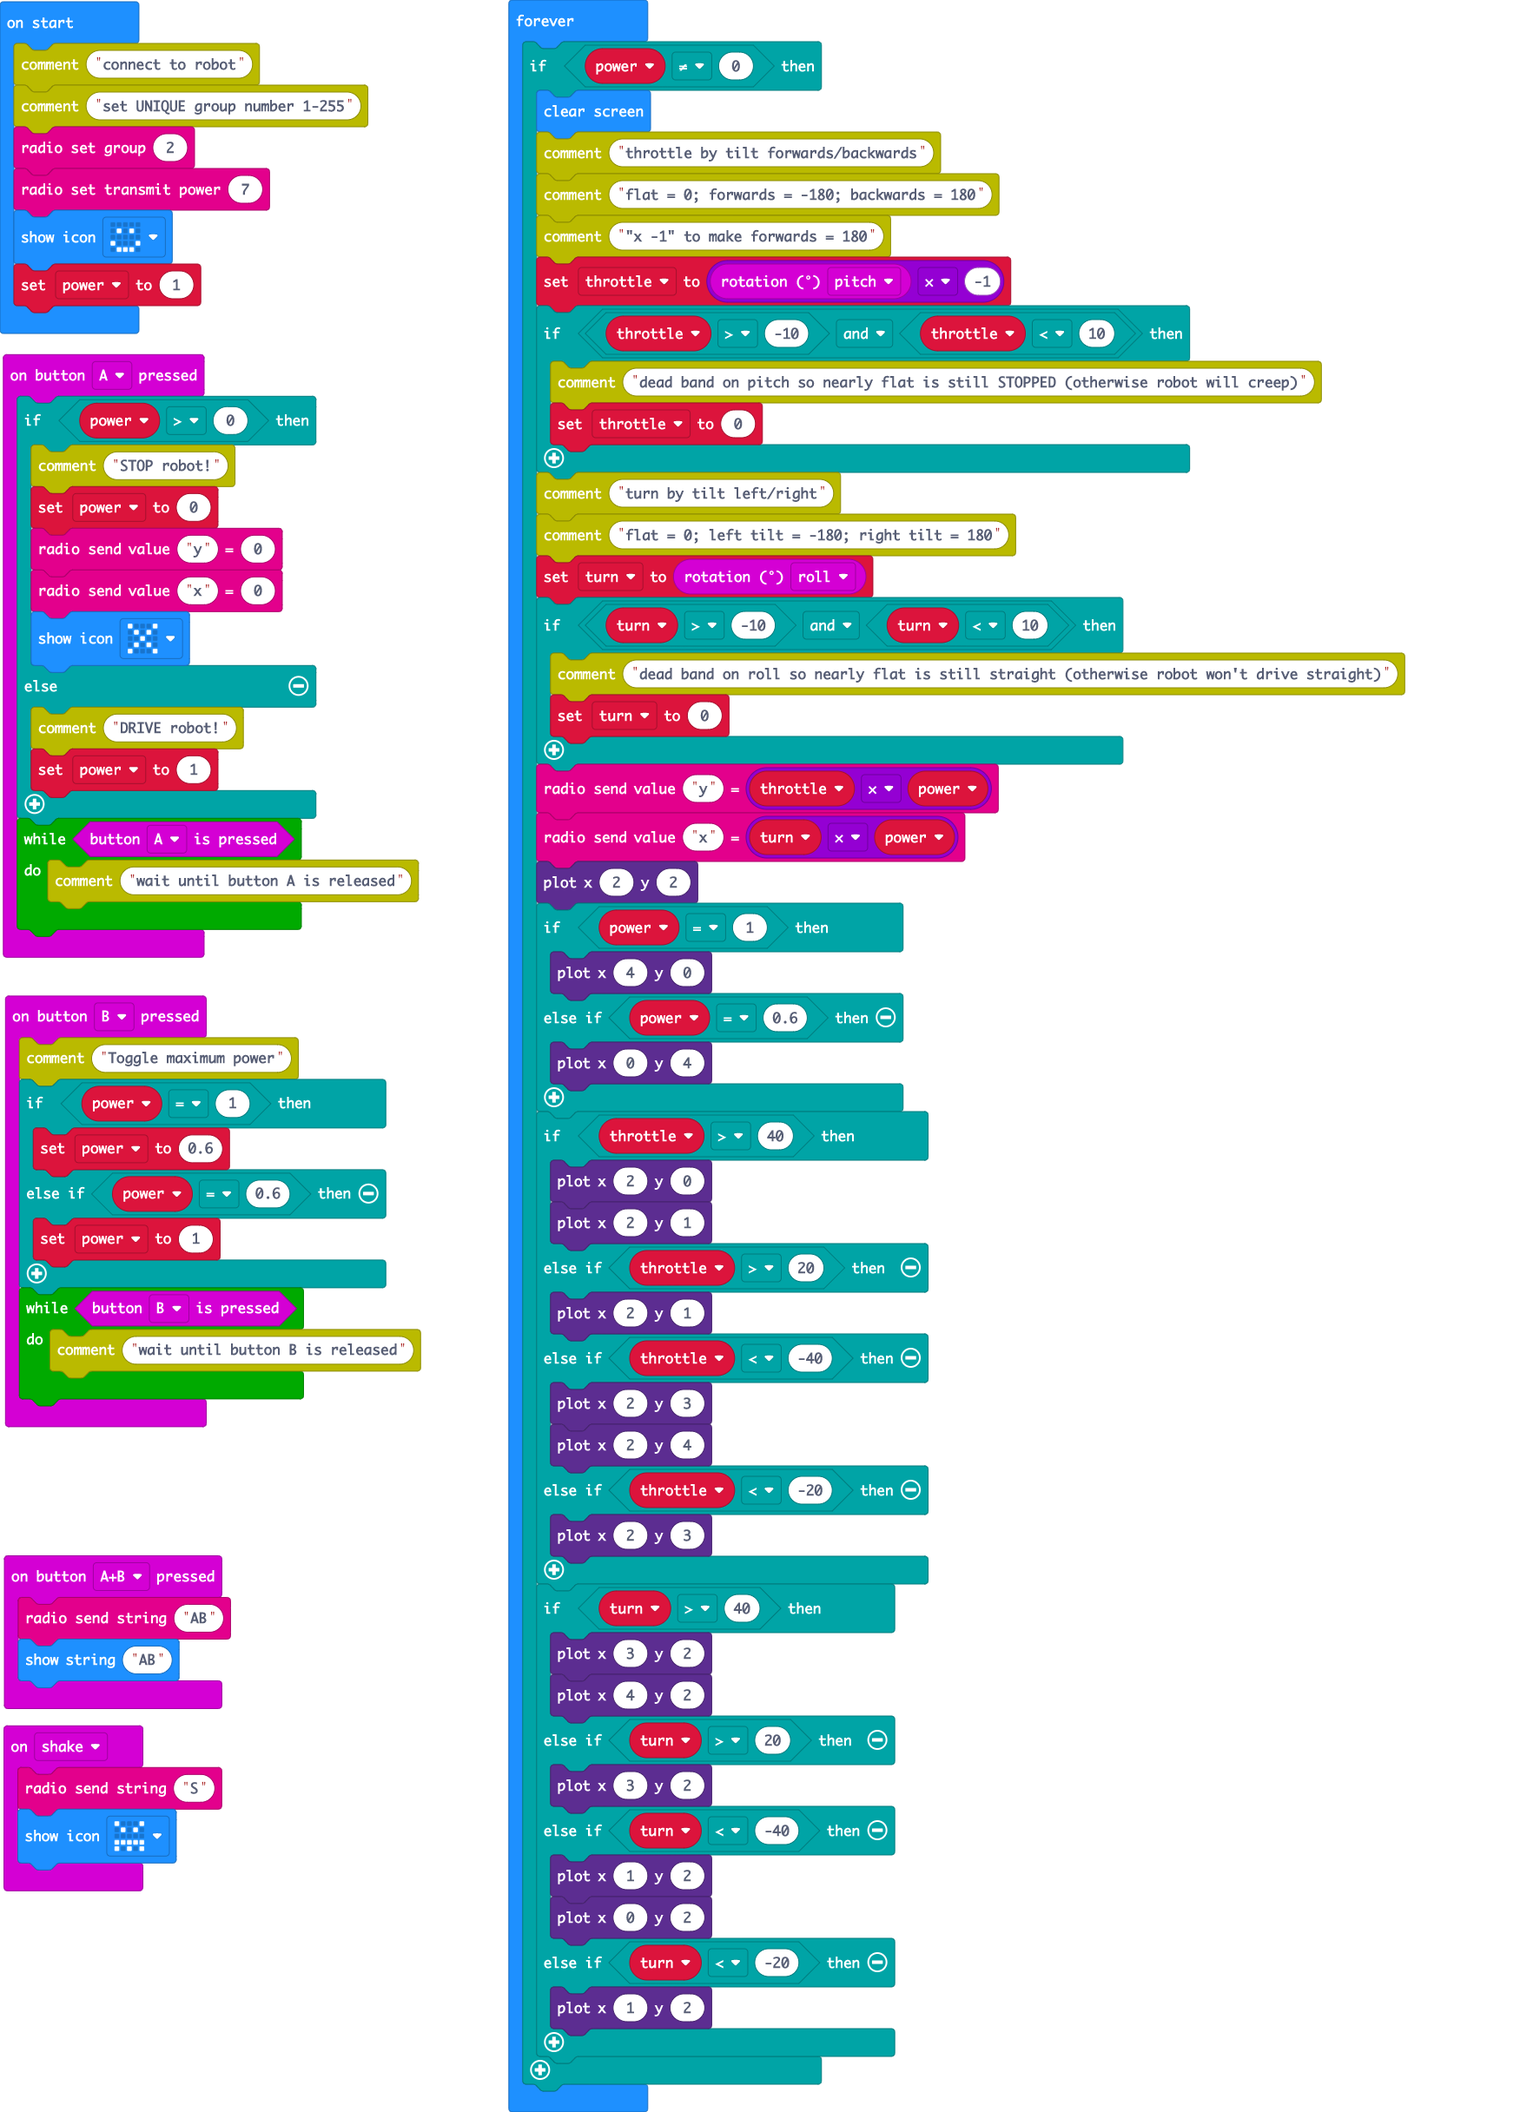
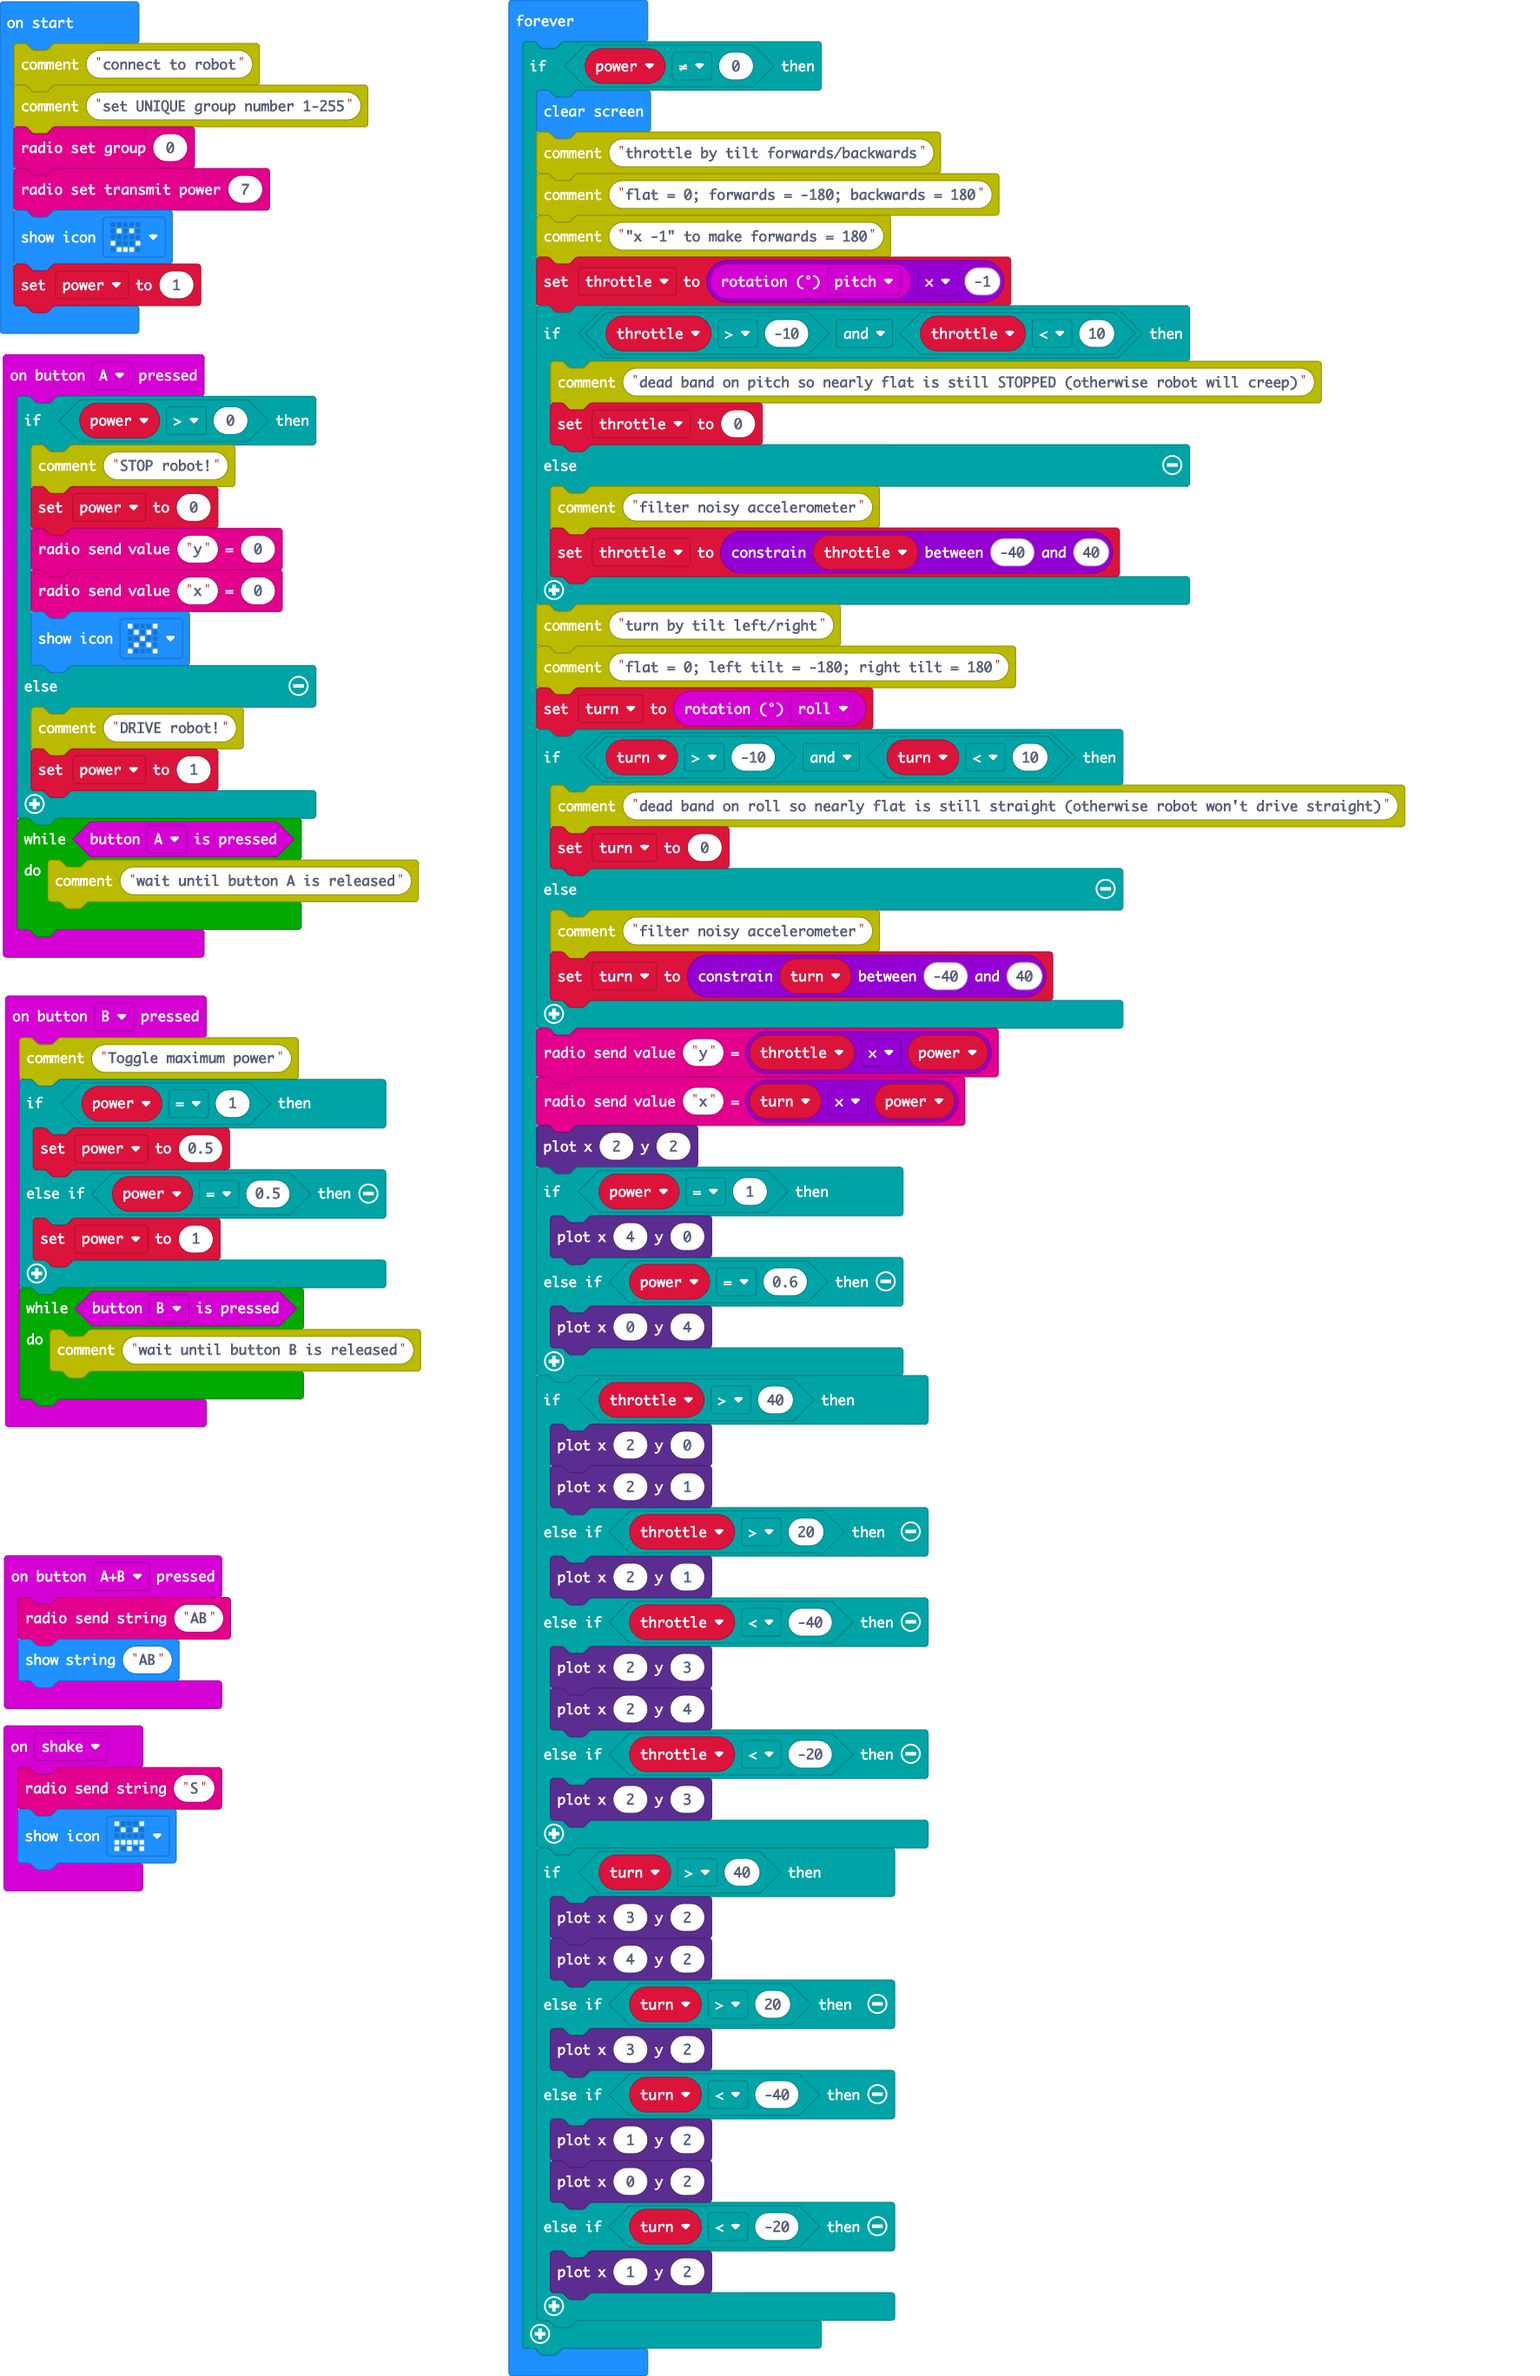
Clean up accelerometer readings

diff --git a/main.ts b/main.ts
@@ -20,8 +20,8 @@ input.onButtonPressed(Button.AB, function () {
 input.onButtonPressed(Button.B, function () {
     comment.comment("Toggle maximum power")
     if (power == 1) {
-        power = 0.6
-    } else if (power == 0.6) {
+        power = 0.5
+    } else if (power == 0.5) {
         power = 1
     }
     while (input.buttonIsPressed(Button.B)) {
@@ -37,7 +37,7 @@ let throttle = 0
 let power = 0
 comment.comment("connect to robot")
 comment.comment("set UNIQUE group number 1-255")
-radio.setGroup(2)
+radio.setGroup(0)
 radio.setTransmitPower(7)
 basic.showIcon(IconNames.Happy)
 power = 1
@@ -51,6 +51,9 @@ basic.forever(function () {
         if (throttle > -10 && throttle < 10) {
             comment.comment("dead band on pitch so nearly flat is still STOPPED (otherwise robot will creep)")
             throttle = 0
+        } else {
+            comment.comment("filter noisy accelerometer")
+            throttle = Math.constrain(throttle, -40, 40)
         }
         comment.comment("turn by tilt left/right")
         comment.comment("flat = 0; left tilt = -180; right tilt = 180")
@@ -58,6 +61,9 @@ basic.forever(function () {
         if (turn > -10 && turn < 10) {
             comment.comment("dead band on roll so nearly flat is still straight (otherwise robot won't drive straight)")
             turn = 0
+        } else {
+            comment.comment("filter noisy accelerometer")
+            turn = Math.constrain(turn, -40, 40)
         }
         radio.sendValue("y", throttle * power)
         radio.sendValue("x", turn * power)
